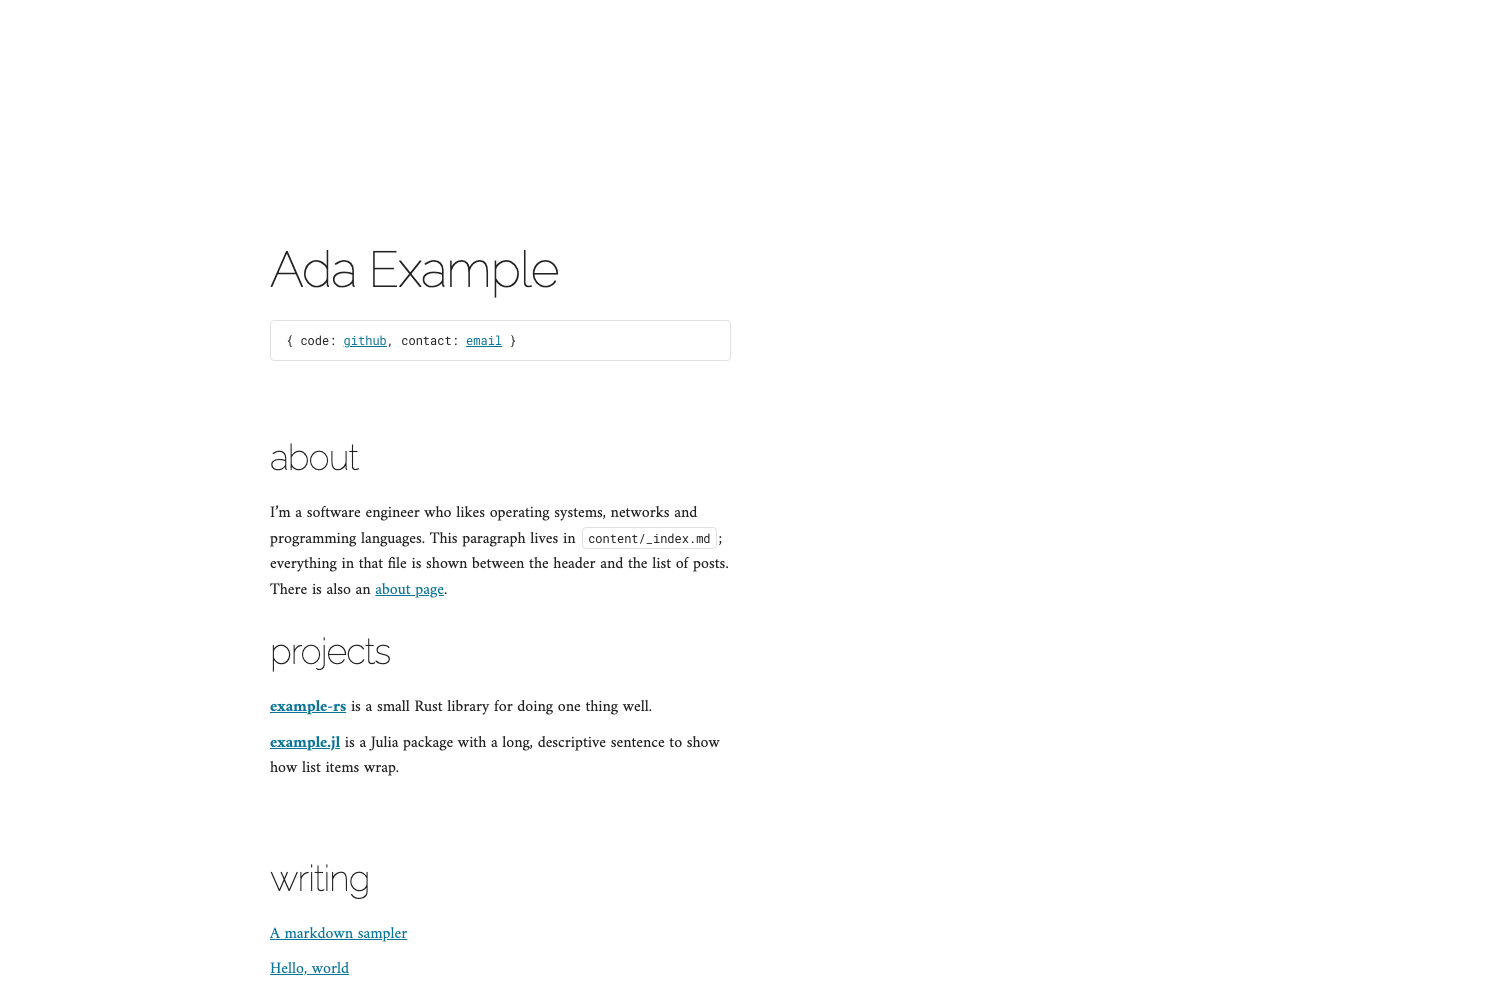
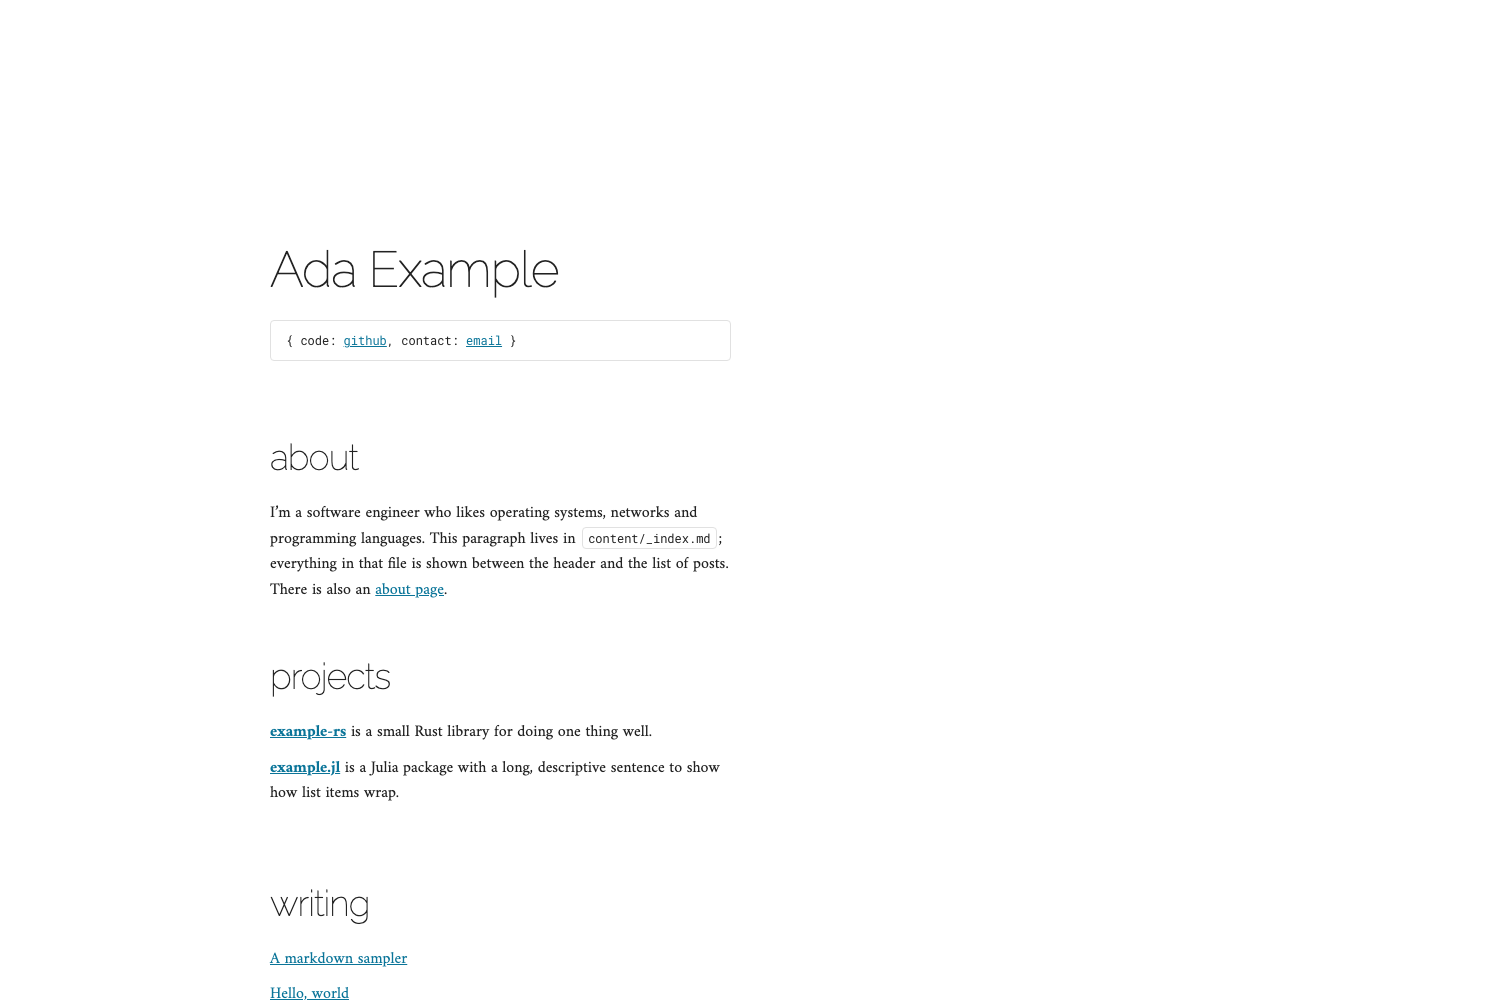
Keep code block borders visible; restore home section spacing
The <pre> is now the bordered, scrolling box, so a code block with long
lines keeps its right border. Sections of content/_index.md get the same
spacing as the old one-row-per-section layout.

Changed region(s): [[0.184, 0.651, 0.4907, 0.806], [0.184, 0.868, 0.276, 1.0]]

diff --git a/static/css/meh.css b/static/css/meh.css
@@ -37,16 +37,26 @@ a:focus-visible {
   .meh-title { font-size: 4.2rem; }
   .meh-section h2 { font-size: 3.6rem; } }
 
-/* Long code lines scroll inside the <pre> (Hugo gives highlighted blocks
-   tabindex="0" so they are keyboard scrollable) instead of overflowing. */
+/* Spacing between the sections of content/_index.md, as when each was its
+   own row. */
+.meh-section > h2:not(:first-child) {
+  margin-top: 5rem; }
+
+/* Code blocks: the <pre> is the bordered box and scrolls long lines (Hugo
+   gives highlighted blocks tabindex="0" so they are keyboard scrollable), so
+   the box never overflows the column and its border stays visible. */
 pre {
-  overflow-x: auto; }
+  overflow-x: auto;
+  padding: 1rem 1.5rem;
+  border: 1px solid #E1E1E1;
+  border-radius: 4px; }
 pre > code {
+  display: block;
   margin: 0;
-  overflow: visible;
-  width: max-content;
-  min-width: 100%;
-  box-sizing: border-box; }
+  padding: 0;
+  border: 0;
+  border-radius: 0;
+  overflow: visible; }
 
 /* Skeleton (as customised here) removes list bullets, which suits the home
    page lists; bring them back inside articles. */

diff --git a/CHANGELOG.md b/CHANGELOG.md
@@ -1,5 +1,12 @@
 # Changelog
 
+## 1.0.1 (2026-11-27)
+
+- Code blocks: the `<pre>` is now the bordered box and does the scrolling, so
+  a block with long lines no longer loses its right border.
+- More space between the `##` sections of `content/_index.md` on the home
+  page, matching the spacing of the 2017 layout.
+
 ## 1.0.0 (2026-11-27)
 
 First tagged release; the theme was rewritten for current Hugo.
